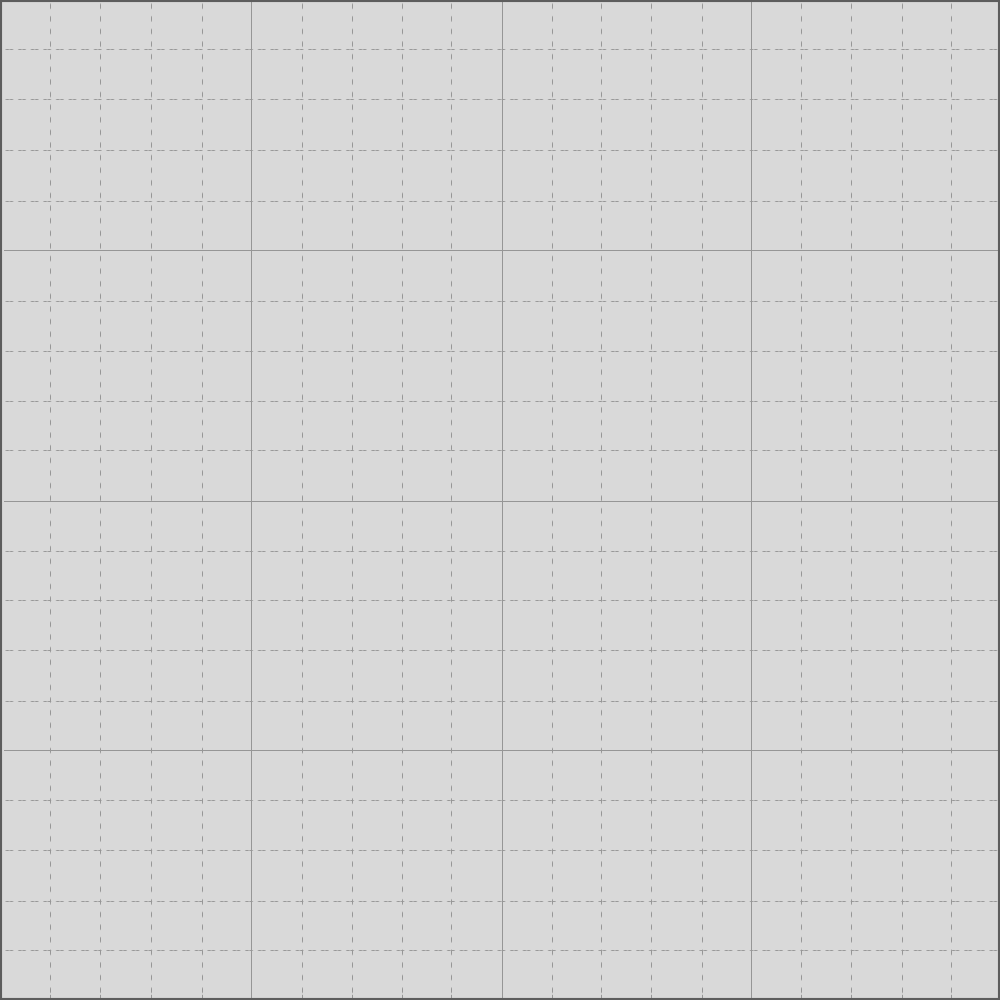
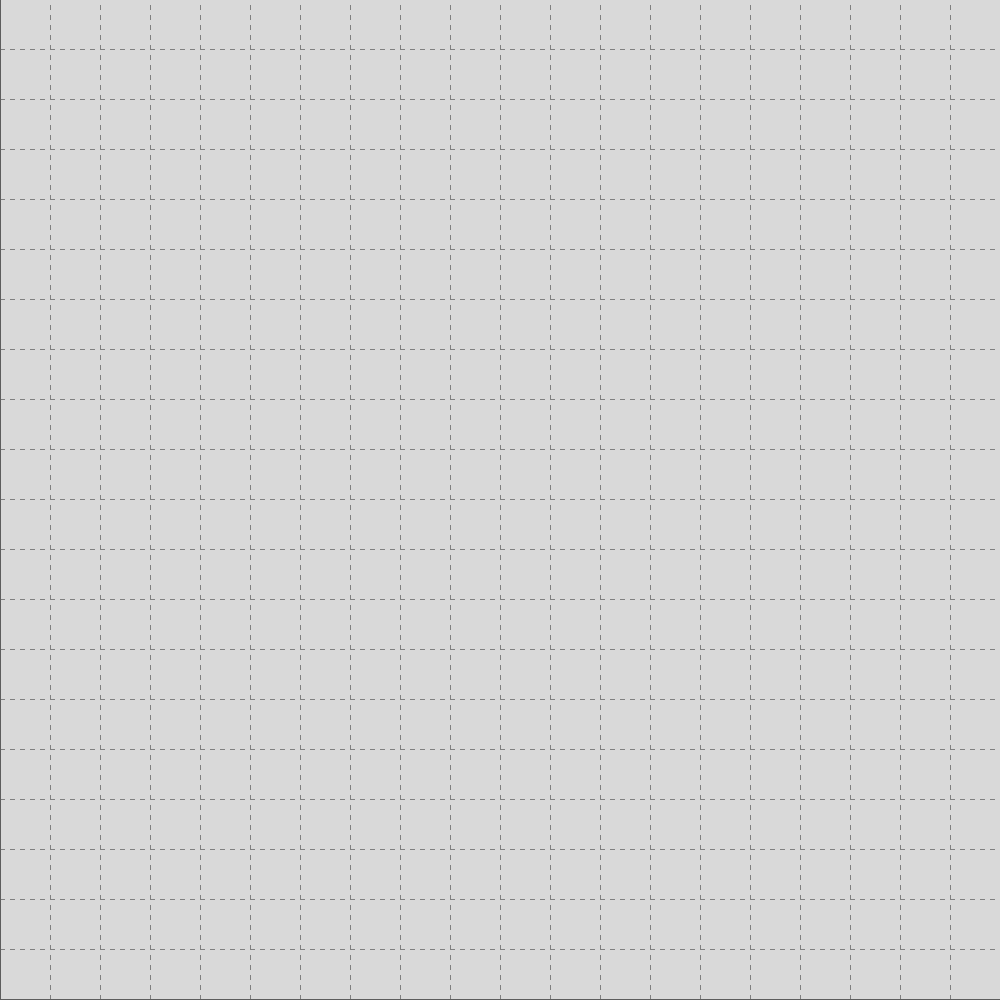
Changed the scale background. Added snapping to editor. Shift to snap to x-axis. Shift and control to snap to y-axis.

diff --git a/Level Editor/src/GameEntry.cpp b/Level Editor/src/GameEntry.cpp
@@ -33,6 +33,11 @@ bool isfileExists(const std::string& file)
 	return false;
 }
 
+float Distance(Vector2 lhs, Vector2 rhs)
+{
+	return (abs((lhs.x - rhs.x)*(lhs.x - rhs.x)) + abs((lhs.y - rhs.y)*(lhs.y - rhs.y)));
+}
+
 int WINAPI WinMain(HINSTANCE hInstance, HINSTANCE hPrevInstance,
 	LPSTR lpCmdLine, int nCmdShow)
 {
@@ -69,6 +74,8 @@ int WINAPI WinMain(HINSTANCE hInstance, HINSTANCE hPrevInstance,
 		}
 	}
 
+	HWND windowHandle = AESysGetWindowHandle();
+	RECT windowRect; 
 	auto horRoad = new DrawObject(0, 0, 71, 9, horizontalRoadTexture,"Horizontal Road","horz-road.png");
 	auto verRoad = new DrawObject(100, 100, 9, 42, verticalRoadTexture, "Vertical Road","vert-road.png");
 	auto buildingObj = new DrawObject(0, 0, 71, 42, buildingTexture,"Building1","building.png");
@@ -81,9 +88,9 @@ int WINAPI WinMain(HINSTANCE hInstance, HINSTANCE hPrevInstance,
 	PrefabVector.push_back(buildingObj);
 	PrefabVector.push_back(verRoad);
 	PrefabVector.push_back(horRoad);
-
+/*
 	horRoad->SetScale(2.0f);
-	verRoad->SetScale(2.0f);
+	verRoad->SetScale(2.0f);*/
 
 	
 
@@ -104,12 +111,21 @@ int WINAPI WinMain(HINSTANCE hInstance, HINSTANCE hPrevInstance,
 	while (!winner) {
 		AESysFrameStart();
 		AEInputUpdate();
-		
+
+		AEGfxSetRenderMode(AE_GFX_RM_COLOR);
+		AEGfxSetBlendMode(AE_GFX_BM_NONE);
+
 		for (auto& i_Backgrounds : background) {
 			i_Backgrounds->Draw();
 		}
+		s8 chars3[100] = {};
+		sprintf_s(chars3, 100, "+");
+		AEGfxPrint(font, chars3, -3, -9, 0, 0, 0);
+
+		GetWindowRect(windowHandle, &windowRect);
 
 		GetCursorPos(&currentMousePos);
+
 		if (GetAsyncKeyState(4) < 0)
 		{
 			if (isMiddleMouseClicked == false)
@@ -133,7 +149,8 @@ int WINAPI WinMain(HINSTANCE hInstance, HINSTANCE hPrevInstance,
 				defaultCamPosY = currentCamPosY;
 			}
 		}
-
+		
+		
 		if (GetAsyncKeyState(VK_TAB) < 0)
 		{
 			if (!isTabPressed)
@@ -151,12 +168,44 @@ int WINAPI WinMain(HINSTANCE hInstance, HINSTANCE hPrevInstance,
 		{
 			isTabPressed = false;
 			char count = 0;
+
 			for (std::vector<DrawObject*>::iterator iter = PrefabVector.begin();iter<PrefabVector.end();++iter,++count)
 			{
 				if (count == ObjCounter)
 				{
-					(*iter)->SetPositionX(static_cast<float>((currentCamPosX - ScreenSizeX) + currentMousePos.x));
-					(*iter)->SetPositionY(static_cast<float>((currentCamPosY + ScreenSizeY) - currentMousePos.y));
+					Vector2 DrawPosition{ static_cast<float>((currentCamPosX - ScreenSizeX) + currentMousePos.x) - windowRect.left
+										 ,static_cast<float>((currentCamPosY + ScreenSizeY) - currentMousePos.y) + windowRect.top };
+					if (GetAsyncKeyState(VK_LSHIFT) < 0)
+					{
+						if (GetAsyncKeyState(VK_LCONTROL) < 0)
+						{
+							DrawPosition.y = (DrawPosition.y - (static_cast<int>(DrawPosition.y) % 50)) + ((*iter)->GetSizeY() / 2);
+						}
+						else
+						{
+							if (DrawPosition.x < 0)
+							{
+								DrawPosition.x = (DrawPosition.x - (50+ (static_cast<int>(DrawPosition.x) % 50) )) + ((*iter)->GetSizeX() / 2);
+							}
+							else
+							{
+								DrawPosition.x = (DrawPosition.x - (static_cast<int>(DrawPosition.x) % 50)) + ((*iter)->GetSizeX() / 2);
+							}
+						}
+					}
+					else if (GetAsyncKeyState(VK_LCONTROL) < 0)
+					{
+						for (auto iter = ToSavePrefabMap.begin(); iter != ToSavePrefabMap.end(); ++iter)
+						{
+							for (auto innerIter = (*iter).second.begin(); innerIter != (*iter).second.end(); ++innerIter)
+							{
+
+							}
+						}
+					}
+
+					(*iter)->SetPositionX(DrawPosition.x);
+					(*iter)->SetPositionY(DrawPosition.y);
 					(*iter)->Draw();
 					break;
 				}
@@ -287,180 +336,19 @@ int WINAPI WinMain(HINSTANCE hInstance, HINSTANCE hPrevInstance,
 		}
 
 
-
-
-		////Collision check with AABBs (Hardcoded)////////////////////////////////////////////////////////////////
-		//Aabb snekHeadAabb ={};
-		//snekHeadAabb.min = snek->m_po_Head->GetMin();
-		//snekHeadAabb.max = snek->m_po_Head->GetMax();
-		//Aabb snekHeadAabb2 ={};
-		//snekHeadAabb2.min = snek2->m_po_Head->GetMin();
-		//snekHeadAabb2.max = snek2->m_po_Head->GetMax();
-		////Head on head action
-		//if (CheckAabbIntersect(&snekHeadAabb, &snekHeadAabb2))
-		//{
-		//	//check iframes
-		//	if (snek->m_po_Head->GetInvulnerable() > 0 || snek2->m_po_Head->GetInvulnerable() > 0){}
-		//	else {
-		//		cameraShake->AddShake(20.0f);
-		//		snek->m_po_Head->SetInvulnerable(1.0f);
-		//		snek2->m_po_Head->SetInvulnerable(1.0f);
-		//		if (snek->m_v_BodyParts.empty()) {
-		//			auto chars = new s8[100];
-		//			sprintf_s(chars, 100, "PLAYER 1 WINS");
-
-		//			AEGfxSetRenderMode(AE_GFX_RM_COLOR);
-		//			AEGfxSetBlendMode(AE_GFX_BM_BLEND);
-
-		//			AEGfxPrint(winFont, chars, 0, 0, 0, 0, 1);
-		//			MessageBox(nullptr, "PLAYER 1 WINS", "ENDGAME", MB_OK);
-		//			return 1;
-		//			winner = 1;
-		//		}
-		//		else if (snek2->m_v_BodyParts.empty())
-		//		{
-		//			auto chars = new s8[100];
-		//			sprintf_s(chars, 100, "PLAYER 2 WINS");
-
-		//			AEGfxSetRenderMode(AE_GFX_RM_COLOR);
-		//			AEGfxSetBlendMode(AE_GFX_BM_BLEND);
-
-		//			AEGfxPrint(winFont, chars, 0, 0, 1, 0, 0);
-		//			MessageBox(nullptr, "PLAYER 2 WINS", "ENDGAME", MB_OK);
-		//			return 1;
-		//			winner = 2;
-
-		//		}
-		//		snek2->m_v_BodyParts.pop_back();
-		//		snek->m_v_BodyParts.pop_back();
-		//		snek2->m_po_Head->SetRotation(snek2->m_po_Head->GetRotation() + PI);
-		//		snek->m_po_Head->SetRotation(snek->m_po_Head->GetRotation() + PI);
-		//	}
-		//}
-		//else {// collision check each head with the other snakes' body
-		//	if (snek2->m_po_Head->GetInvulnerable() > 0){}
-		//	else {
-		//		auto i_BodyParts = snek2->m_v_BodyParts.begin();
-		//		for (; i_BodyParts != snek2->m_v_BodyParts.end(); ++i_BodyParts)
-		//		{
-		//			if (snek2->m_po_Head->GetInvulnerable() > 0)
-		//				break;
-		//			Aabb bodyPartAabb ={};
-		//			bodyPartAabb.min = (*i_BodyParts)->GetMin();
-		//			bodyPartAabb.max = (*i_BodyParts)->GetMax();
-		//			if (CheckAabbIntersect(&bodyPartAabb, &snekHeadAabb))
-		//			{
-		//				cameraShake->AddShake(20.0f);
-		//				//snek->m_po_Head->SetColor(rand() % 10000);
-		//				snek->m_po_Head->SetRotation(snek->m_po_Head->GetRotation() + PI);
-		//				snek2->m_v_BodyParts.erase(i_BodyParts, snek2->m_v_BodyParts.end());
-		//				snek2->m_po_Head->SetInvulnerable(2.0f);
-		//				break;
-		//			}
-		//		}
-		//	}
-		//	// collision check head 2 with snake 1 body
-		//	if (snek->m_po_Head->GetInvulnerable() > 0){}
-		//	else {
-		//		auto i_BodyParts2 = snek->m_v_BodyParts.begin();
-		//		for (; i_BodyParts2 != snek->m_v_BodyParts.end(); ++i_BodyParts2)
-		//		{
-		//			if (snek->m_po_Head->GetInvulnerable() > 0)
-		//				break;
-		//			Aabb bodyPartAabb2 ={};
-		//			bodyPartAabb2.min = (*i_BodyParts2)->GetMin();
-		//			bodyPartAabb2.max = (*i_BodyParts2)->GetMax();
-		//			if (CheckAabbIntersect(&bodyPartAabb2, &snekHeadAabb2))
-		//			{
-		//				cameraShake->AddShake(20.0f);
-		//				//snek2->m_po_Head->SetColor(rand() % 10000);
-		//				snek2->m_po_Head->SetRotation(snek2->m_po_Head->GetRotation() + PI);
-		//				snek->m_v_BodyParts.erase(i_BodyParts2, snek->m_v_BodyParts.end());
-		//				snek->m_po_Head->SetInvulnerable(2.0f);
-		//				break;
-		//			}
-		//		}
-		//	}
-
-		//	// collision check heads with buildings
-		//	auto i_Buildings = buildingsVec.begin();
-		//	for (; i_Buildings != buildingsVec.end(); ++i_Buildings)
-		//	{
-		//		if ((*i_Buildings)->GetColor() == 9009)
-		//		{
-		//			continue;
-		//		}
-		//		Aabb buildingAabb ={};
-		//		buildingAabb.min = (*i_Buildings)->GetMin();
-		//		buildingAabb.max = (*i_Buildings)->GetMax();
-		//		if (CheckAabbIntersect(&buildingAabb, &snekHeadAabb))
-		//		{
-		//			//cameraShake->AddShake(1.0f);
-
-		//			(*i_Buildings)->SetColor(9009);
-		//			float bodySpawnX;
-		//			float bodySpawnY;
-		//			if (!snek->m_v_BodyParts.empty()) {
-		//				bodySpawnX = snek->m_v_BodyParts.back()->GetPosition().x;
-		//				bodySpawnY = snek->m_v_BodyParts.back()->GetPosition().y;
-		//			}else
-		//			{
-		//				bodySpawnX = snek->m_po_Head->GetPosition().x;
-		//				bodySpawnY = snek->m_po_Head->GetPosition().y;
-		//			}
-		//			auto snekBodyTest = static_cast<SnekBody*>(new DrawObject(bodySpawnX, bodySpawnY,
-		//																				  61, 80, snakeBodyTexture));
-		//			snek->AddBodyPart(snekBodyTest);
-		//			break;
-		//		}
-		//		if (CheckAabbIntersect(&buildingAabb, &snekHeadAabb2))
-		//		{
-		//			//cameraShake->AddShake(1.0f);
-		//			(*i_Buildings)->SetColor(9009);
-		//			float bodySpawnX;
-		//			float bodySpawnY;
-		//			if (!snek2->m_v_BodyParts.empty()) {
-		//				bodySpawnX = snek2->m_v_BodyParts.back()->GetPosition().x;
-		//				bodySpawnY = snek2->m_v_BodyParts.back()->GetPosition().y;
-		//			}
-		//			else
-		//			{
-		//				bodySpawnX = snek2->m_po_Head->GetPosition().x;
-		//				bodySpawnY = snek2->m_po_Head->GetPosition().y;
-		//			}
-		//			auto snekBodyTest2 = static_cast<SnekBody*>(new DrawObject(bodySpawnX, bodySpawnY,
-		//																				  61, 80, snake2BodyTexture));
-		//			snek2->AddBodyPart(snekBodyTest2);
-		//			break;
-		//		}
-		//	}
-		//}
-		//Collision check end////////////////////////////////////////////////////////////////////////////////////
-
-		//DRAW STARTS////////////////////////////////////////////////////////////////////////////////////
-		/*		
-		for (auto& i_Building : buildingsVec) {
-			i_Building->Draw();
-		}
-		*/
-
 		s8 chars[100] = {};
 		s8 chars2[100]= {};
-		s8 chars3[100]= {};
-
 		
 
 		sprintf_s(chars, 100, "CamPos: %.2f,%.2f", currentCamPosX,currentCamPosY);
 		sprintf_s(chars2, 100, "MousePos: %.2f,%.2f", static_cast<float>(currentMousePos.x),static_cast<float>(currentMousePos.y));
-		sprintf_s(chars3, 100, "+");
-
+		
 		AEGfxSetRenderMode(AE_GFX_RM_COLOR);
 		AEGfxSetBlendMode(AE_GFX_BM_NONE);
 
 		AEGfxPrint(font, chars, currentCamPosX- ScreenSizeX, currentCamPosY+(ScreenSizeY/10)*9, 0, 0, 1);
 		AEGfxPrint(font, chars2, currentCamPosX - ScreenSizeX, currentCamPosY + (ScreenSizeY/10)*9  -30, 1, 0, 0);
-		AEGfxPrint(font, chars3, -3, -9, 0, 0, 0);/*
-		*///DRAW ENDS////////////////////////////////////////////////////////////////////////////////////
+		//*///DRAW ENDS////////////////////////////////////////////////////////////////////////////////////
 
 		AESysFrameEnd();
 	}

diff --git a/Level Editor/src/ECS/EntityList.cpp b/Level Editor/src/ECS/EntityList.cpp
@@ -10,6 +10,5 @@ BaseEntity::BaseEntity(const char* entityName)
 		*charPointer = *entityName;
 		charPointer++, entityName++;
 	}
-
 	*charPointer = 0;
 }
